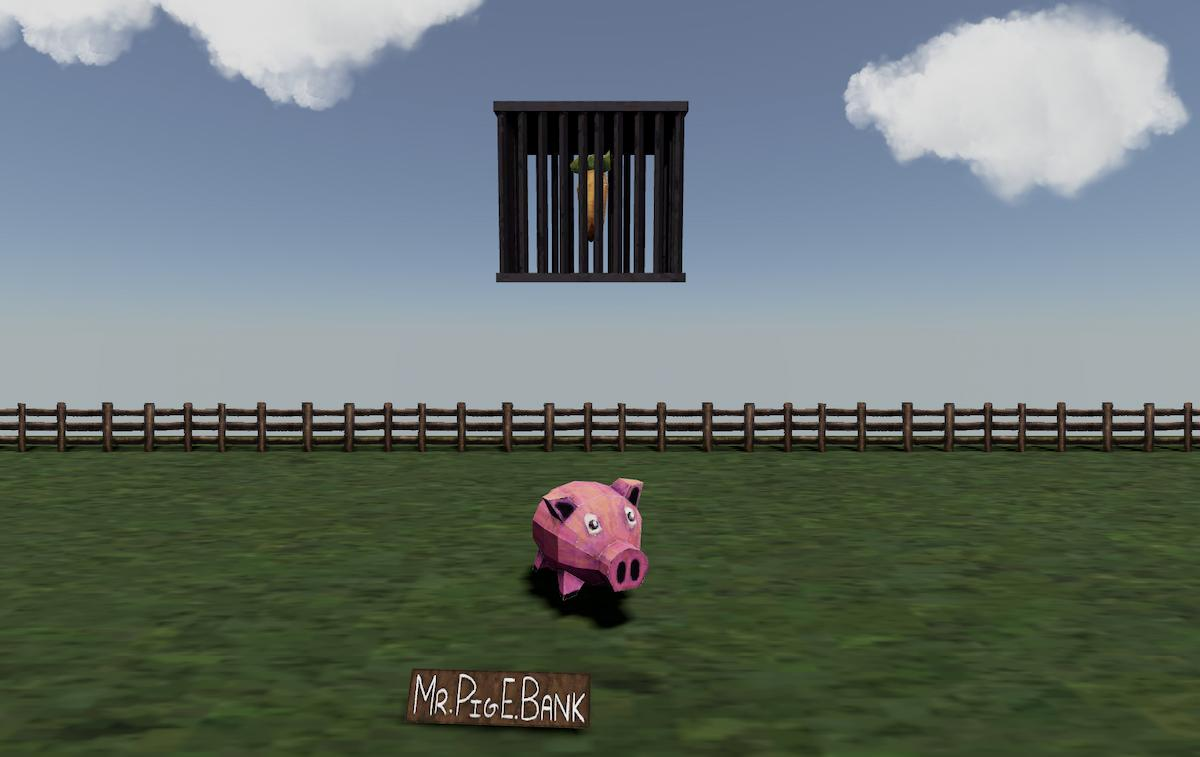
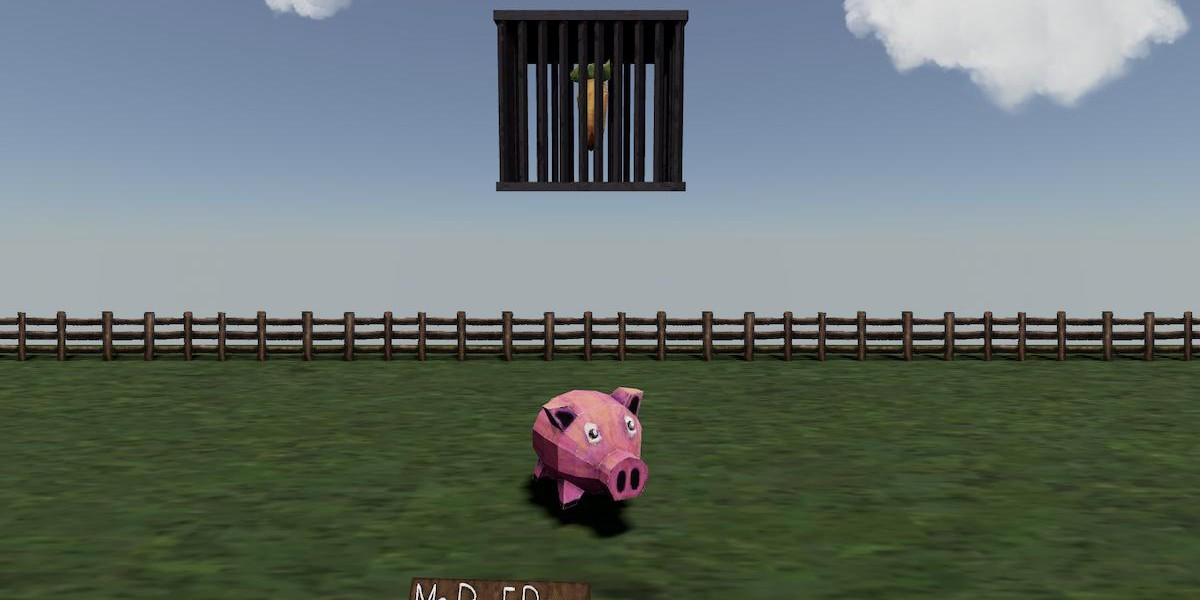
update seo to address opengraph issues

diff --git a/index.html b/index.html
@@ -3,21 +3,23 @@
   <head>
     <meta charset="UTF-8" />
     <meta name="viewport" content="width=device-width, initial-scale=1.0" />
-    <title>Philanthropy Clinic</title>
-    <meta name="description" content="Become a philanthropist for as little as $1. The Philanthropy Clinic is your affordable route to the title — no profuse wealth required." />
+    <title>Philanthropy Clinic — Become a Philanthropist for $1</title>
+    <meta name="description" content="Become a philanthropist for as little as $1 — no profuse wealth required." />
     <link rel="canonical" href="https://clinic.jaxsenville.com" />
 
     <!-- Open Graph -->
     <meta property="og:type" content="website" />
-    <meta property="og:title" content="Philanthropy Clinic" />
-    <meta property="og:description" content="Become a philanthropist for as little as $1. The Philanthropy Clinic is your affordable route to the title — no profuse wealth required." />
+    <meta property="og:site_name" content="Philanthropy Clinic" />
+    <meta property="og:title" content="Philanthropy Clinic — Become a Philanthropist for $1" />
+    <meta property="og:description" content="Become a philanthropist for as little as $1 — no profuse wealth required." />
     <meta property="og:url" content="https://clinic.jaxsenville.com" />
     <meta property="og:image" content="https://clinic.jaxsenville.com/og-image.jpg" />
 
     <!-- Twitter Card -->
     <meta name="twitter:card" content="summary_large_image" />
-    <meta name="twitter:title" content="Philanthropy Clinic" />
-    <meta name="twitter:description" content="Become a philanthropist for as little as $1. The Philanthropy Clinic is your affordable route to the title — no profuse wealth required." />
+    <meta name="twitter:site" content="@j_xsen" />
+    <meta name="twitter:title" content="Philanthropy Clinic — Become a Philanthropist for $1" />
+    <meta name="twitter:description" content="Become a philanthropist for as little as $1 — no profuse wealth required." />
     <meta name="twitter:image" content="https://clinic.jaxsenville.com/og-image.jpg" />
 
     <meta name="theme-color" content="#7ec8e3" />